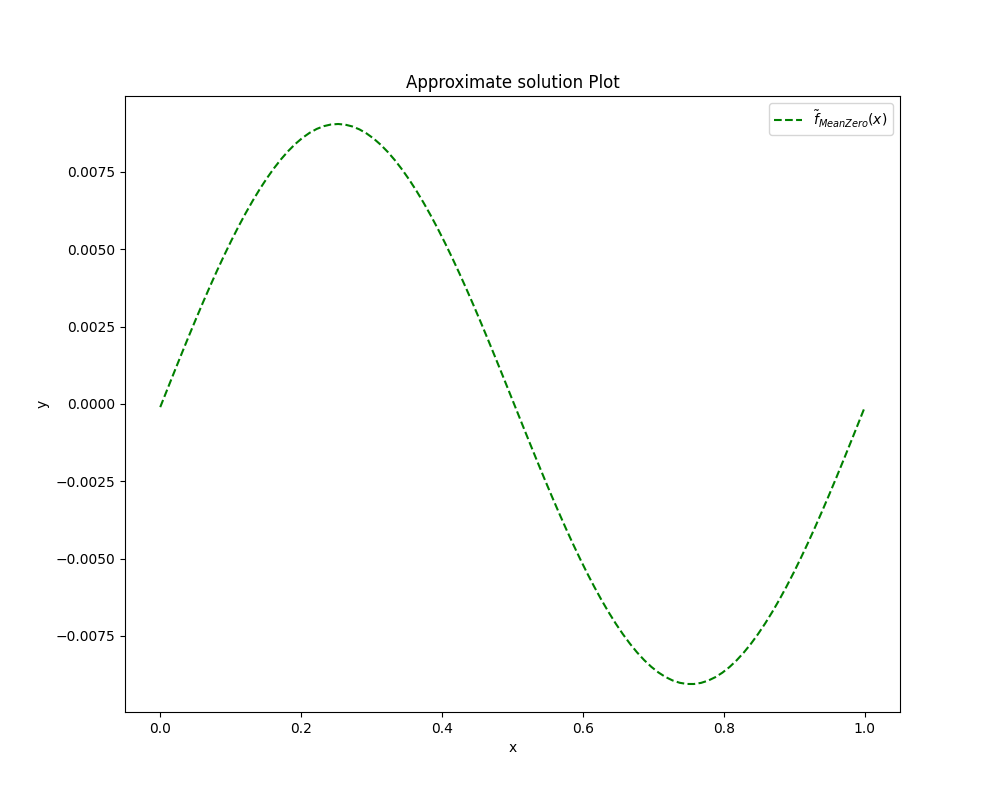
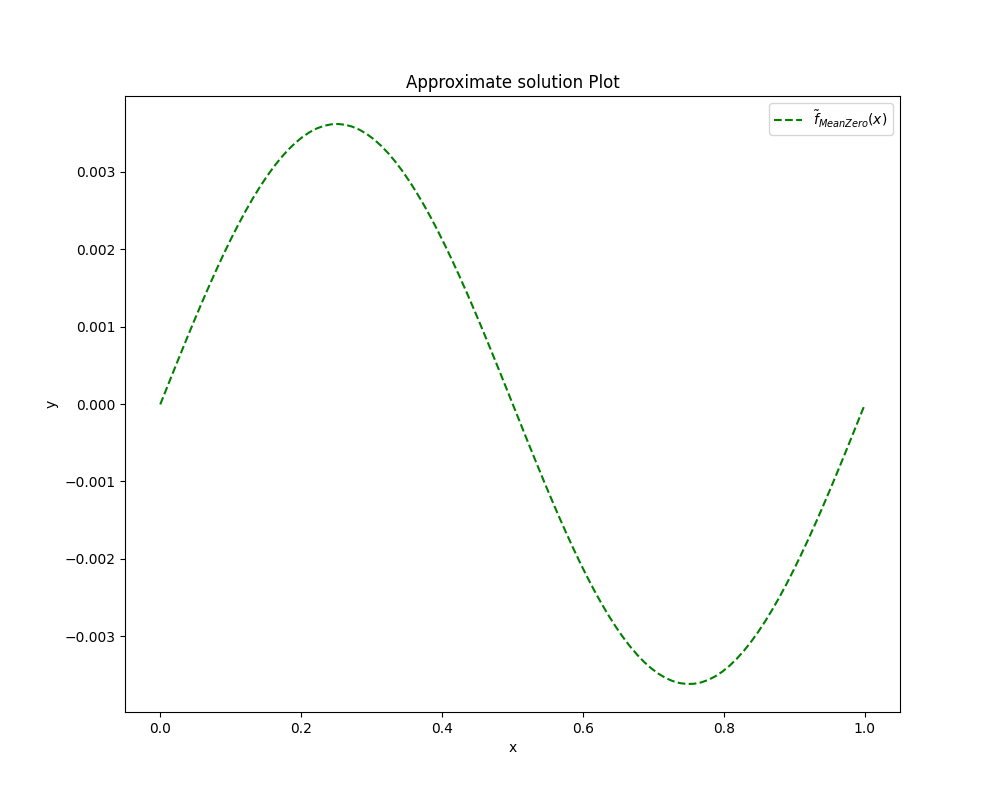
‘new’

diff --git a/try.py b/try.py
@@ -3,7 +3,6 @@ import matplotlib.pyplot as plt
 import tensorflow as tf
 from tensorflow.keras.layers import Layer
 import math
-import torch
 
 tf.keras.backend.set_floatx('float64')
 
@@ -20,14 +19,14 @@ class SineActivation(Layer):
 
 NN = tf.keras.models.Sequential([
         tf.keras.layers.Input((1,)),
-        SineActivation(),
+        tf.keras.layers.Dense(units=64, activation='tanh'),
         tf.keras.layers.Dense(units=64, activation='tanh'),
         tf.keras.layers.Dense(units=1),
     ])
 
 NN.summary()
 
-optm = tf.keras.optimizers.Adam(learning_rate=0.001)
+optm = tf.keras.optimizers.Adam(learning_rate=0.00001)
 
 def rho_sin(t):
     return tf.sin(2*math.pi*t)/7
@@ -37,11 +36,12 @@ def rho_sin(t):
 
 def ode_system(t, rho, net):
     t = tf.reshape(t, [-1, 1])
+    t = tf.constant(t, dtype=tf.float64)
     t_0 = tf.zeros((1, 1), dtype=tf.float64)
     t_1 = tf.ones((1, 1), dtype=tf.float64)
     zeros = tf.zeros((1, 1), dtype=tf.float64)
 
-    with tf.GradientTape() as tape1:
+    with tf.GradientTape(persistent=True) as tape1:
         tape1.watch(t)
         with tf.GradientTape() as tape2:
             tape2.watch(t)
@@ -50,13 +50,10 @@ def ode_system(t, rho, net):
 
     u_tt = tape1.gradient(u_t, t)
     u_t2 = 2 * u * u_t  # Chain rule for derivative of u*u with respect to t
-    indices = [0, 10, 20]
-    for idx in indices:
-        print(f"u_tt[{t[idx,0].numpy()}]: {u_tt[idx,0].numpy()}, u_t2[{t[idx,0].numpy()}]: {u_t2[idx,0].numpy()}")
-
-
     ode_loss = - u_tt + u_t2  - rho(t)   # for non-trivial solution, add rho(t)
-    square_loss = tf.square(ode_loss)
+
+    BC_loss = net(t_0) - net(t_1)  # Boundary condition
+    square_loss = tf.square(ode_loss) + tf.square(BC_loss)
     total_loss = tf.reduce_mean(square_loss)
 
     del tape1, tape2
@@ -64,15 +61,6 @@ def ode_system(t, rho, net):
     return total_loss, ode_loss
 
 
-
-
-
-
-def net(t):
-    return (1/330) * tf.sin(2 * np.pi * t)
-test_t = np.linspace(0, 1, 100).astype(np.float64)
-total, ode = ode_system(test_t, rho_sin, net)
-#print mean of ode.numpy()
 
 
 
@@ -133,7 +121,8 @@ def Lipschitz_constant(t, net):
 
 # Function to calculate the residuals
 def calculate_residuals(t, net):
-    _, residuals = ode_system(t, rho_sin, net)
+    t_tensor = tf.constant(tf.reshape(t, [-1, 1]), dtype=tf.float64)
+    _, residuals = ode_system(t_tensor, rho_sin, net)
     return residuals
 
 
@@ -171,7 +160,7 @@ train_loss_record = []
 
 optm = tf.keras.optimizers.Adam(learning_rate=0.001)
 
-for itr in range(2001):
+for itr in range(10001):
     with tf.GradientTape() as tape:
         train_loss, _ = ode_system(tf.constant(train_t),rho_sin, NN)
         train_loss_record.append(train_loss.numpy())
@@ -235,8 +224,8 @@ pred_u = NN.predict(test_t).ravel()
 int_bound =  lower_bound_int(NN)
 print(int_bound)
 plt.figure(figsize=(10, 8))
-#plt.plot(test_t, pred_u, '-.r', label=r'$\tilde{f}(x)$') pred_u - int_bound
-plt.plot(test_t, NN(test_t) - int_bound, '--g', label=r'$\tilde{f}_{Mean Zero} (x)$')
+#plt.plot(test_t, pred_u, '-.r', label=r'$\tilde{f}(x)$')
+plt.plot(test_t, pred_u - int_bound, '--g', label=r'$\tilde{f}_{Mean Zero} (x)$')
 #plt.plot(test_t, 0 * test_t, '--k', label='zero_solution')
 plt.legend()
 plt.xlabel('x')
